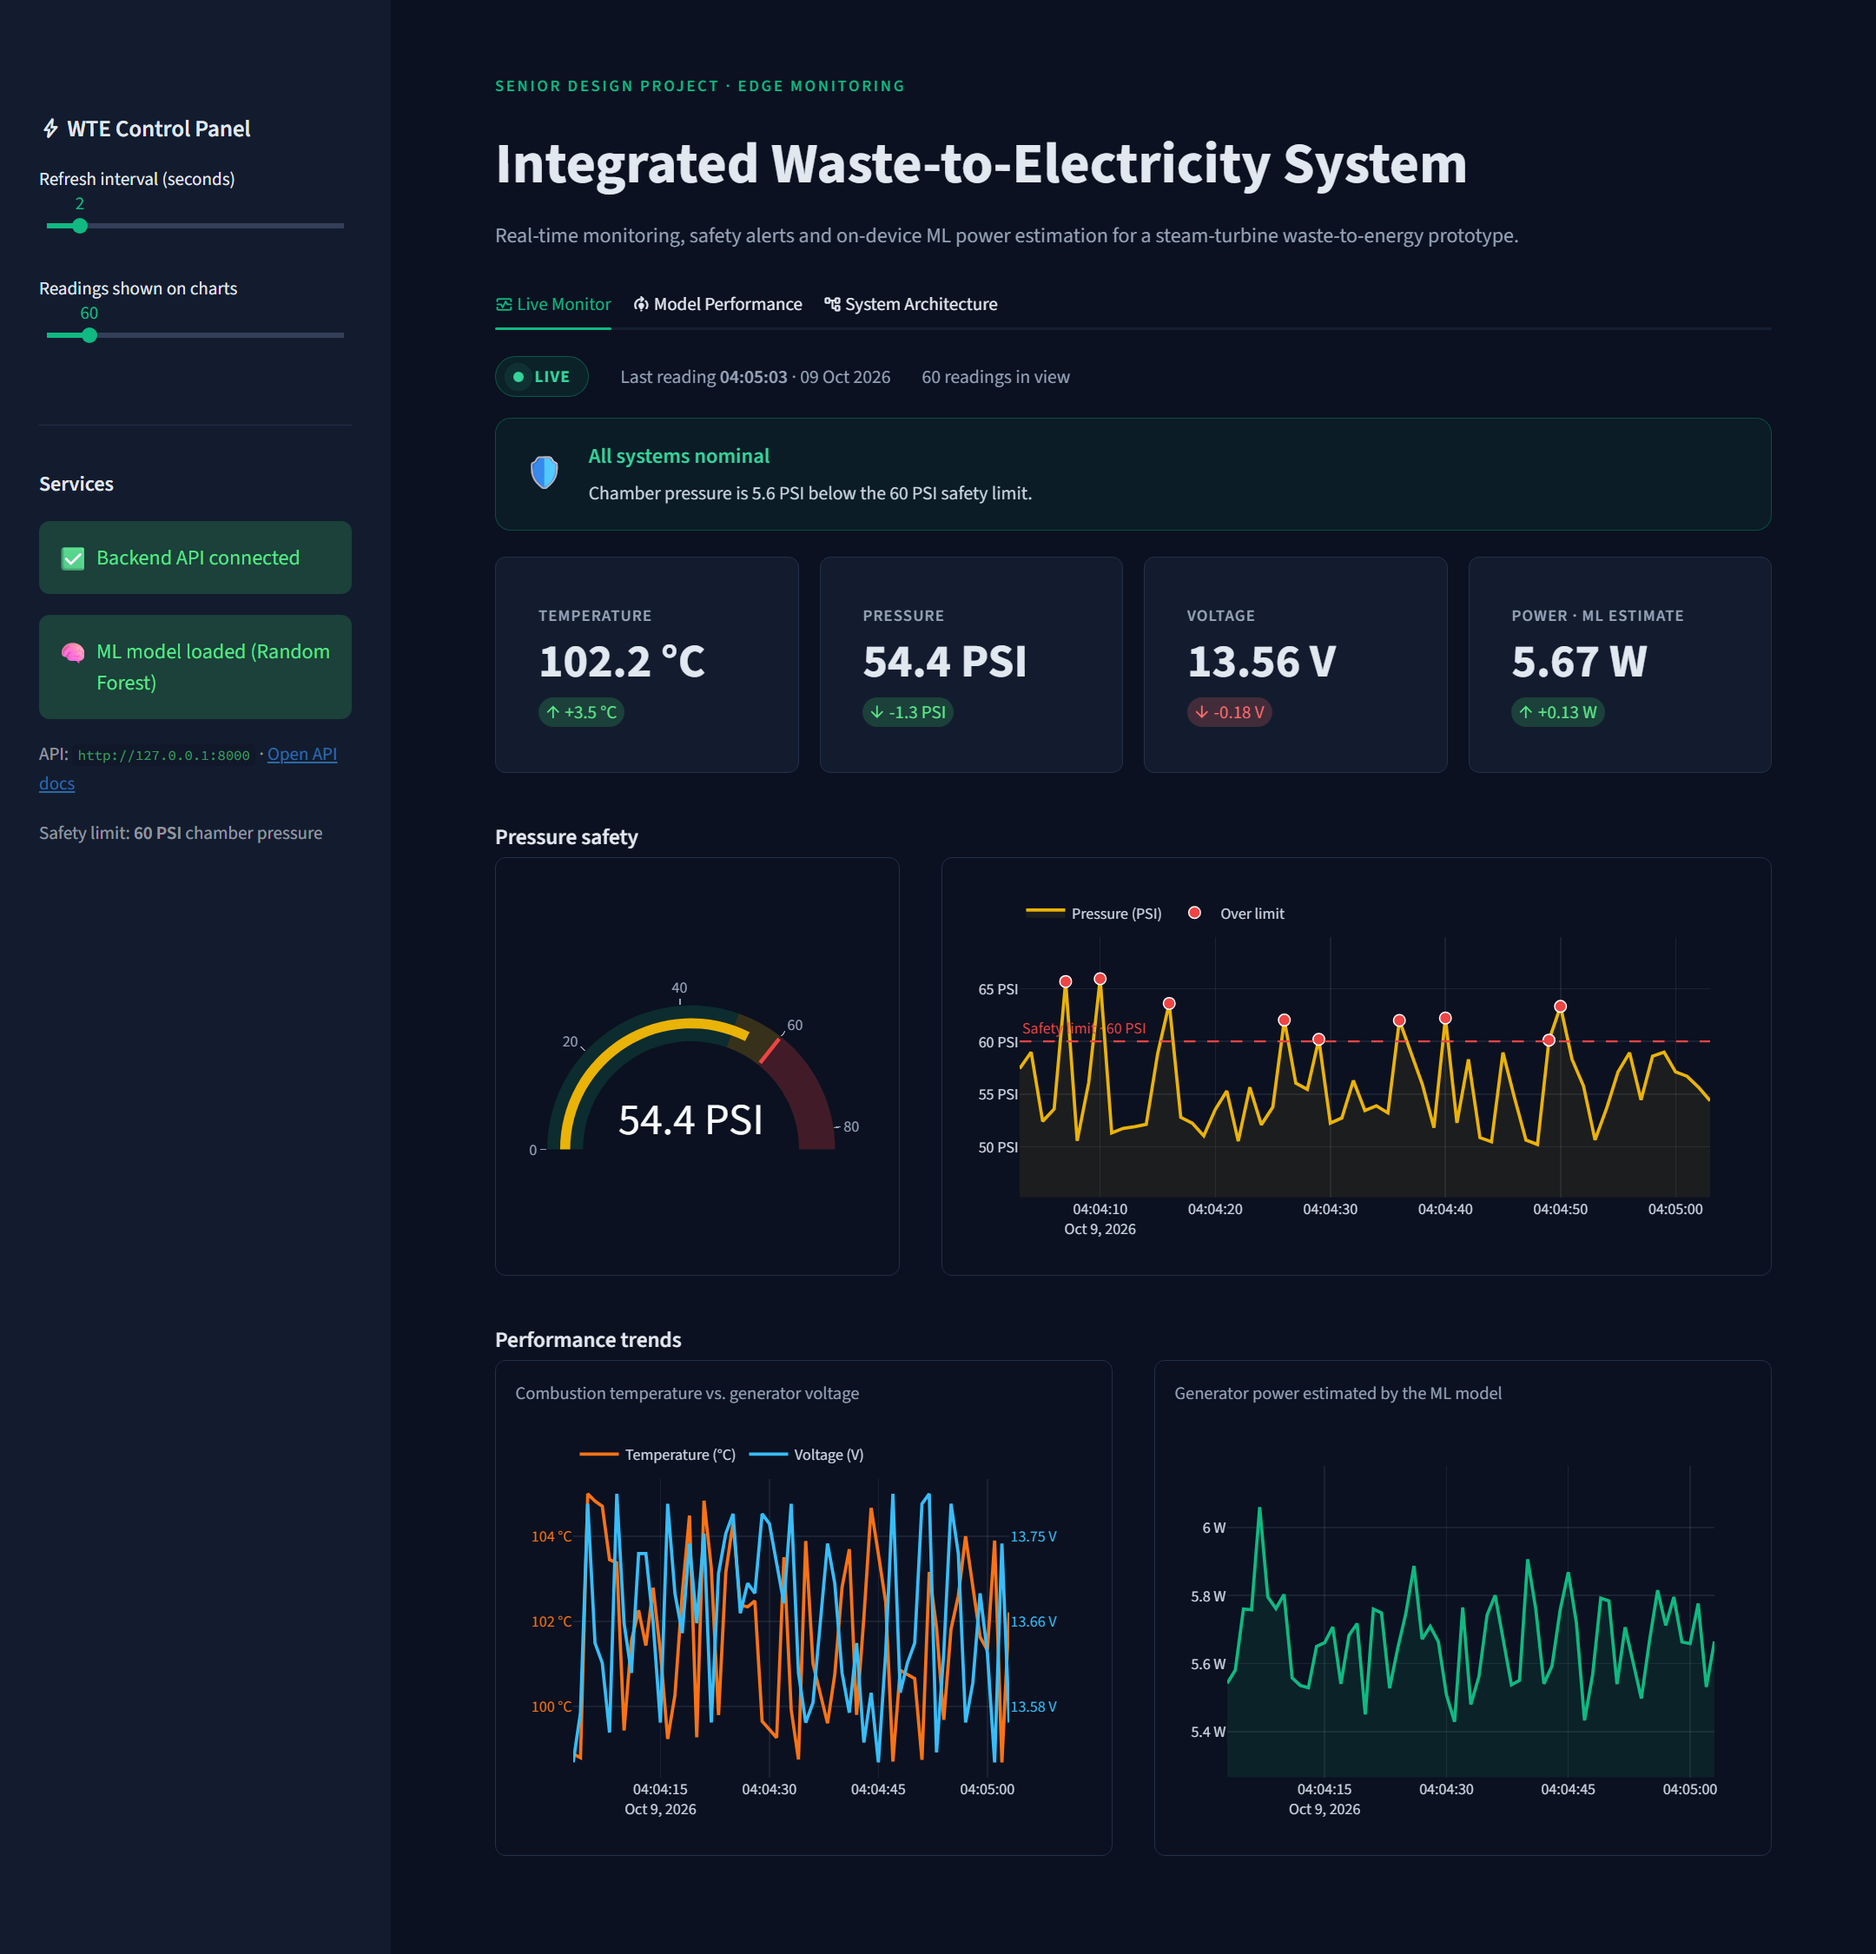
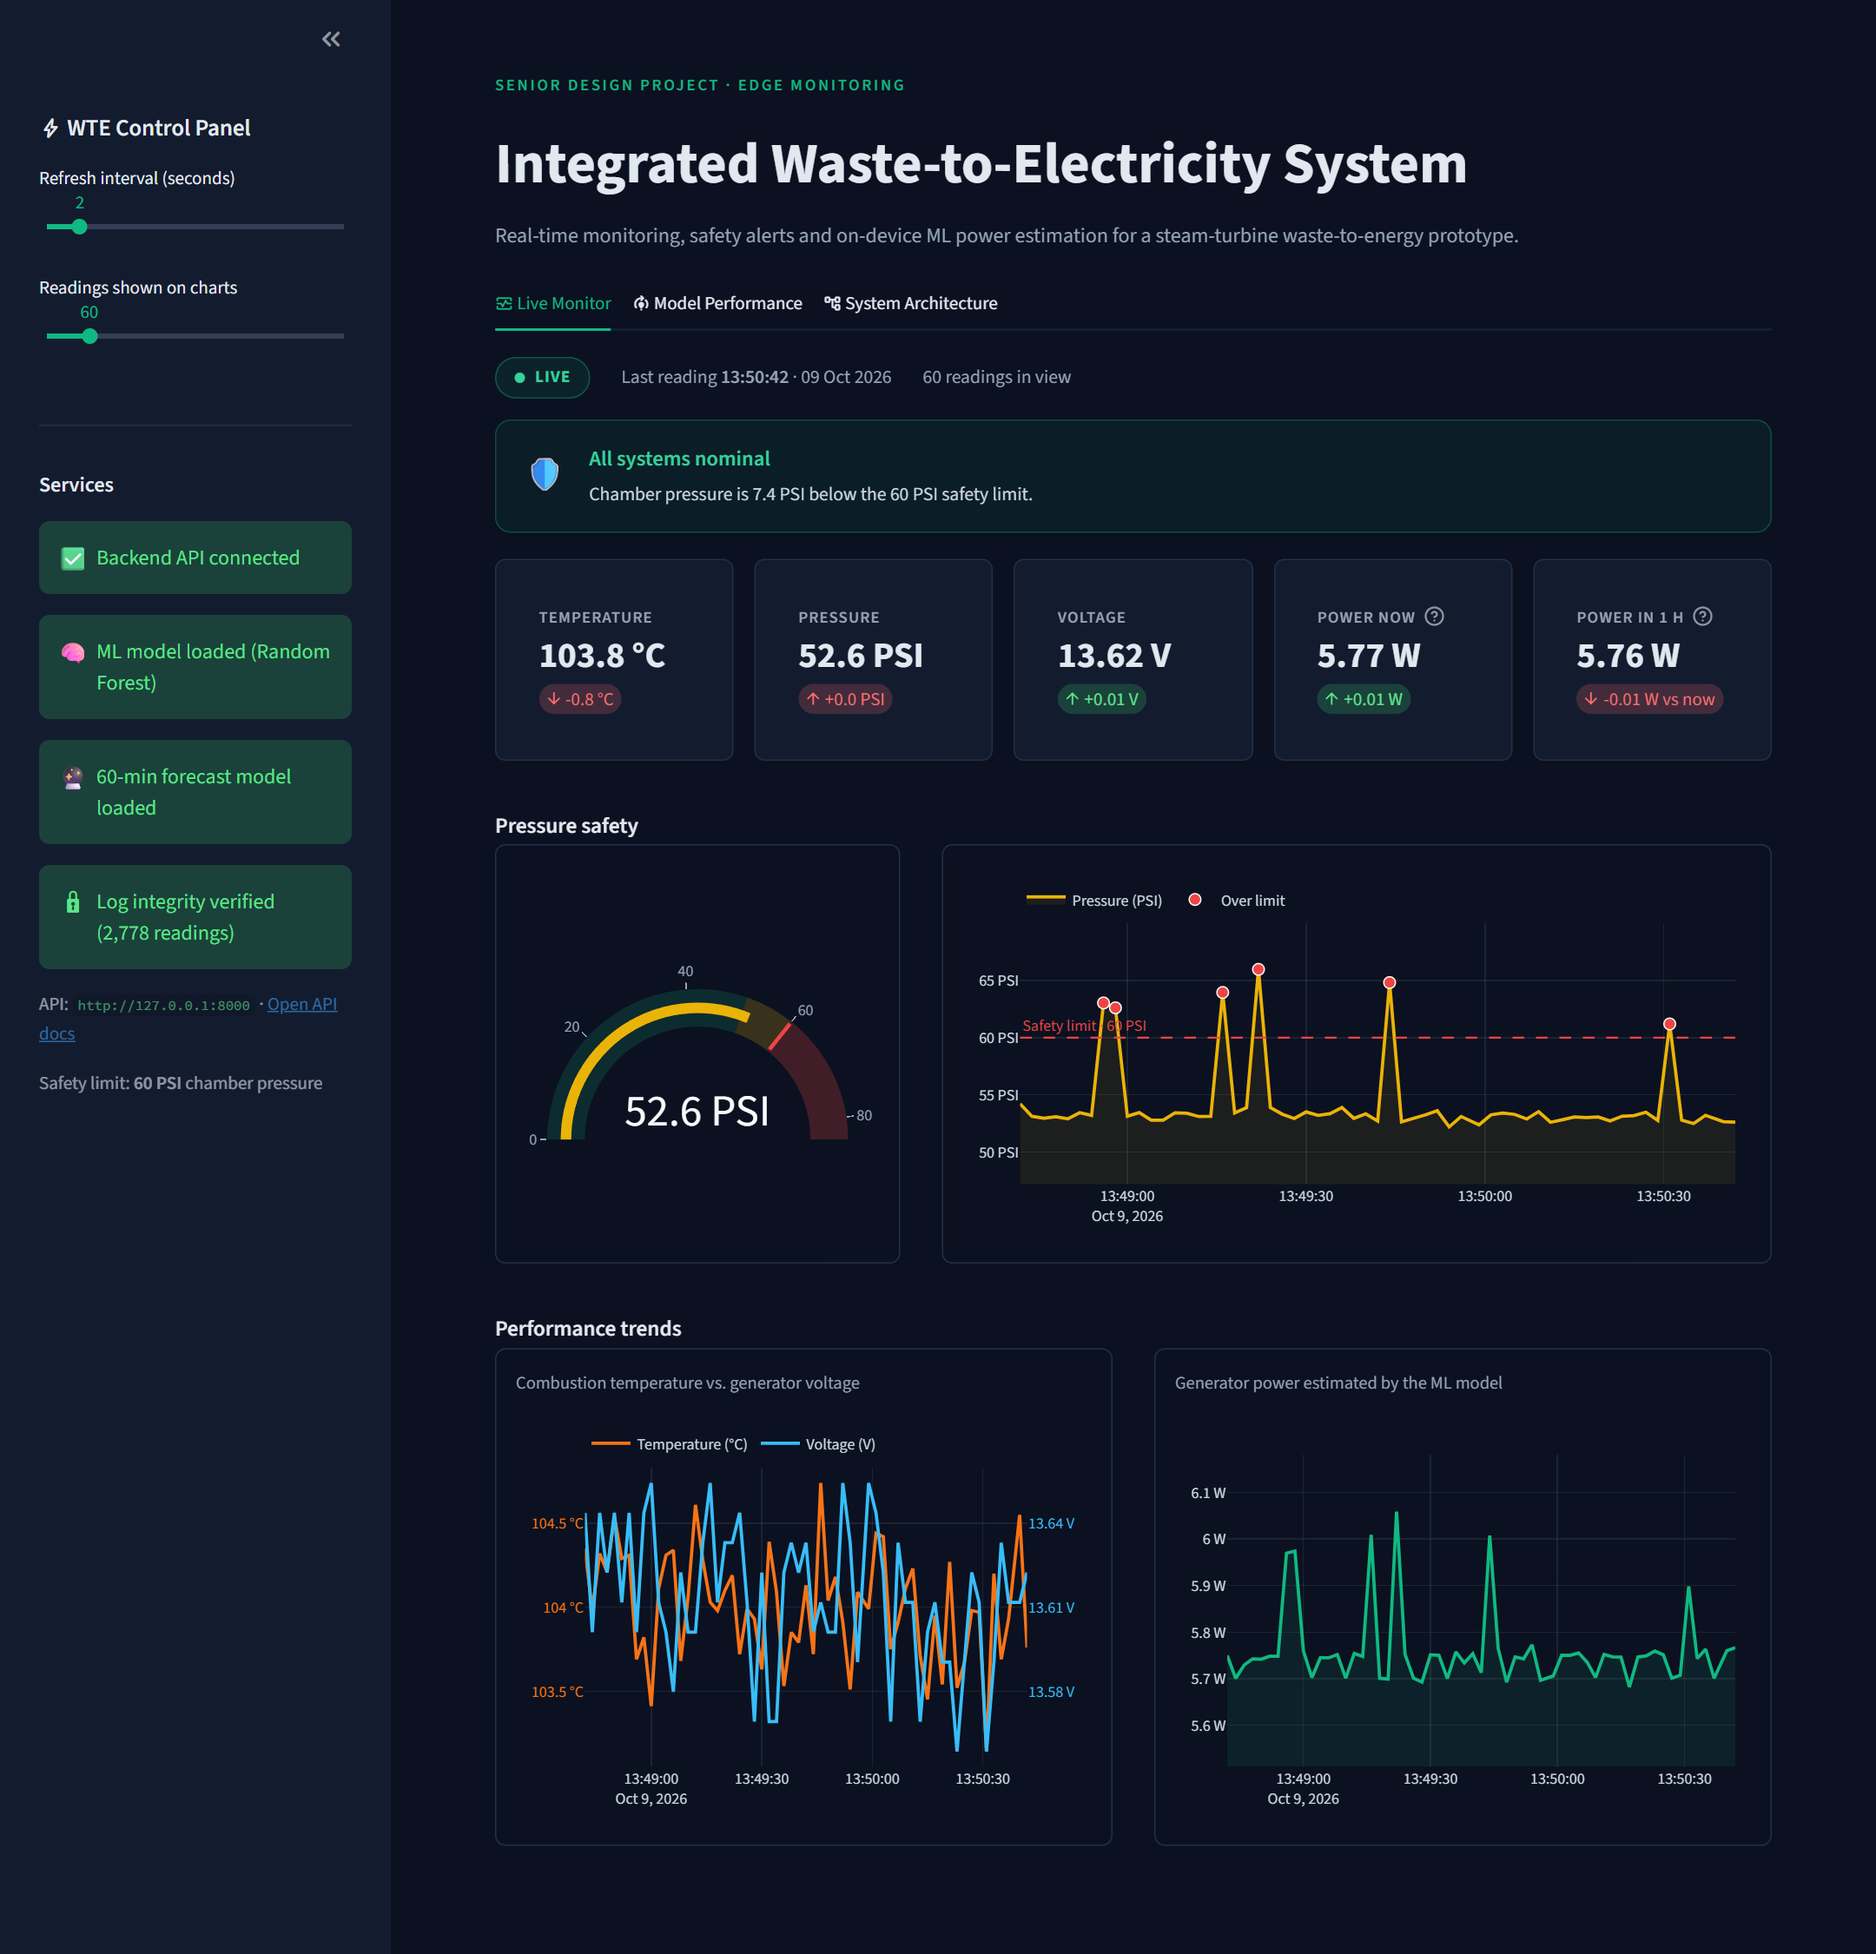
Dashboard: clearer power card labels; new screenshot with the forecast

diff --git a/wte/dashboard.py b/wte/dashboard.py
@@ -75,6 +75,8 @@ st.markdown(
     [data-testid="stMetric"] { background: #131c2e; padding: 1rem 1.1rem; }
     [data-testid="stMetricLabel"] p { color: #94a3b8; font-size: .78rem; font-weight: 600;
                                       letter-spacing: .06em; text-transform: uppercase; }
+    [data-testid="stMetricLabel"] * { white-space: normal !important; overflow: visible !important;
+                                      text-overflow: clip !important; }
     [data-testid="stMetricValue"] { font-weight: 700; font-size: clamp(1.35rem, 1.9vw, 2.25rem); }
 
     .section { font-size: 1.05rem; font-weight: 600; margin: 1.25rem 0 .1rem; }
@@ -96,6 +98,11 @@ def api_get(path: str, **params):
     except requests.RequestException:
         pass
     return None
+
+
+def change(new: float, old: float, decimals: int) -> str:
+    """Signed difference for a metric delta; + 0.0 turns a rounded -0.00 into +0.00 so no change isn't shown as a drop."""
+    return f"{round(new - old, decimals) + 0.0:+.{decimals}f}"
 
 
 # --- Chart helpers ---------------------------------------------------------------------------
@@ -304,28 +311,29 @@ def live_monitor() -> None:
     # KPI cards
     c1, c2, c3, c4, c5 = st.columns(5)
     c1.metric("Temperature", f"{latest['temperature']:.1f} °C",
-              delta=f"{latest['temperature'] - previous['temperature']:+.1f} °C", border=True)
+              delta=f"{change(latest['temperature'], previous['temperature'], 1)} °C", border=True)
     c2.metric("Pressure", f"{latest['pressure']:.1f} PSI",
-              delta=f"{latest['pressure'] - previous['pressure']:+.1f} PSI", delta_color="inverse", border=True)
+              delta=f"{change(latest['pressure'], previous['pressure'], 1)} PSI", delta_color="inverse", border=True)
     c3.metric("Voltage", f"{latest['voltage']:.2f} V",
-              delta=f"{latest['voltage'] - previous['voltage']:+.2f} V", border=True)
+              delta=f"{change(latest['voltage'], previous['voltage'], 2)} V", border=True)
     if has_model:
-        c4.metric("Power · ML estimate", f"{latest['predicted_power_w']:.2f} W",
-                  delta=f"{latest['predicted_power_w'] - previous['predicted_power_w']:+.2f} W", border=True)
+        c4.metric("Power now", f"{latest['predicted_power_w']:.2f} W",
+                  delta=f"{change(latest['predicted_power_w'], previous['predicted_power_w'], 2)} W", border=True,
+                  help="Generator power estimated by the ML model from the latest temperature and pressure.")
     else:
-        c4.metric("Power · ML estimate", "—", help="Model not loaded on the backend.", border=True)
+        c4.metric("Power now", "—", help="Model not loaded on the backend.", border=True)
 
     outlook = api_get("/forecast")
     if outlook and outlook["available"]:
         target = pd.Timestamp(outlook["target_time"])
-        c5.metric("Forecast · 60 min", f"{outlook['predicted_power_w']:.2f} W",
-                  delta=(f"{outlook['predicted_power_w'] - latest['predicted_power_w']:+.2f} W vs now"
+        c5.metric("Power in 1 h", f"{outlook['predicted_power_w']:.2f} W",
+                  delta=(f"{change(outlook['predicted_power_w'], latest['predicted_power_w'], 2)} W vs now"
                          if has_model else None),
-                  help=f"Expected generator power at {target:%H:%M}, from the last 30 min of readings and the "
+                  help=f"Forecast of generator power at {target:%H:%M}, from the last 30 min of readings and the "
                        "feed plan. The forecast model was trained on synthetic plant data.",
                   border=True)
     else:
-        c5.metric("Forecast · 60 min", "—", border=True,
+        c5.metric("Power in 1 h", "—", border=True,
                   help=outlook["reason"] if outlook else "Backend API unreachable.")
 
     # Pressure safety

diff --git a/README.md b/README.md
@@ -139,7 +139,7 @@ The live power estimate comes from a `StandardScaler` → `RandomForestRegressor
 
 ## 60-minute forecast
 
-The dashboard's **Forecast · 60 min** card shows the generator power expected an hour from now.
+The dashboard's **Power in 1 h** card shows the generator power expected an hour from now.
 
 **The data is synthetic.** No long recordings of the real plant exist, so the model is trained on
 runs simulated by [`wte/plant.py`](wte/plant.py): the boiler warms up from first steam, the operator
